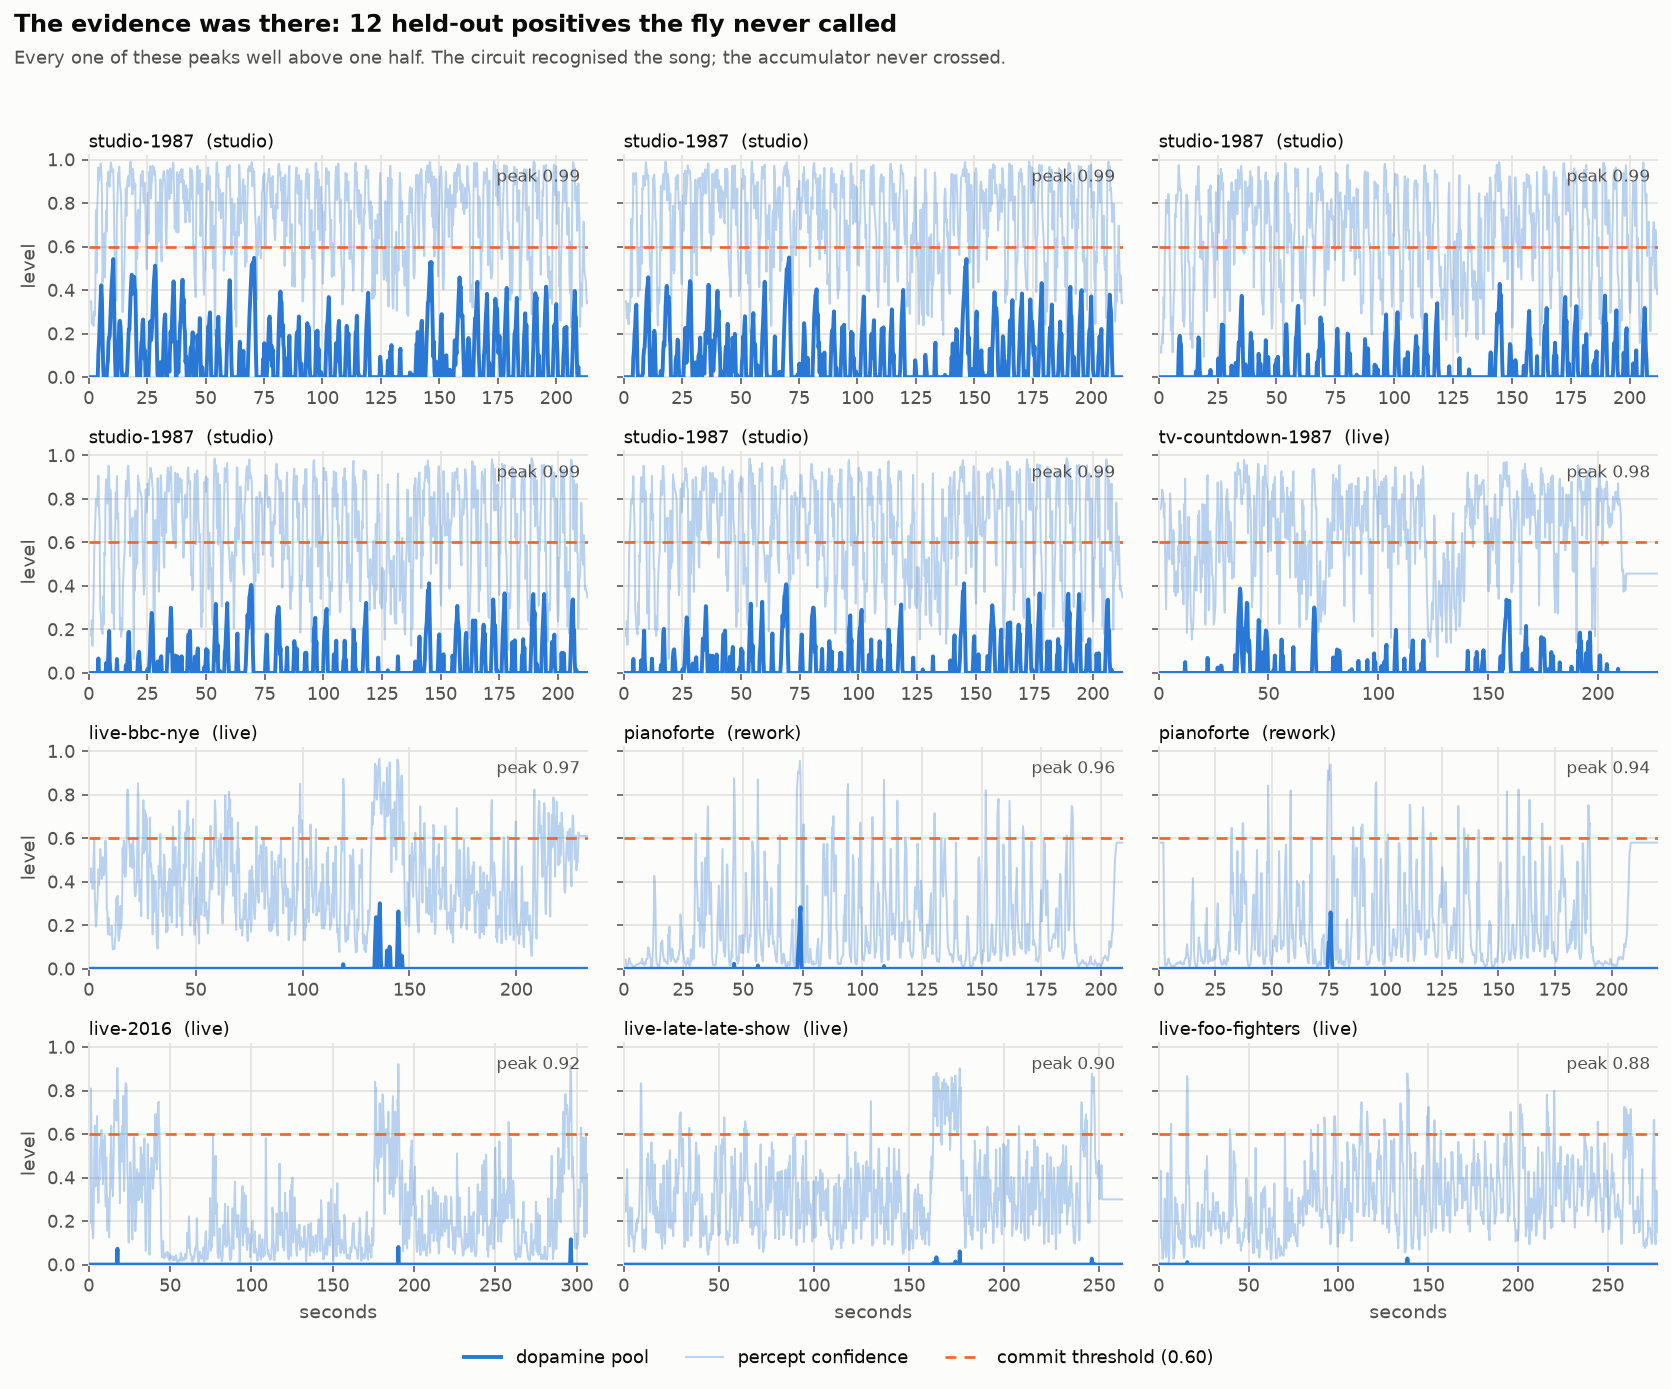
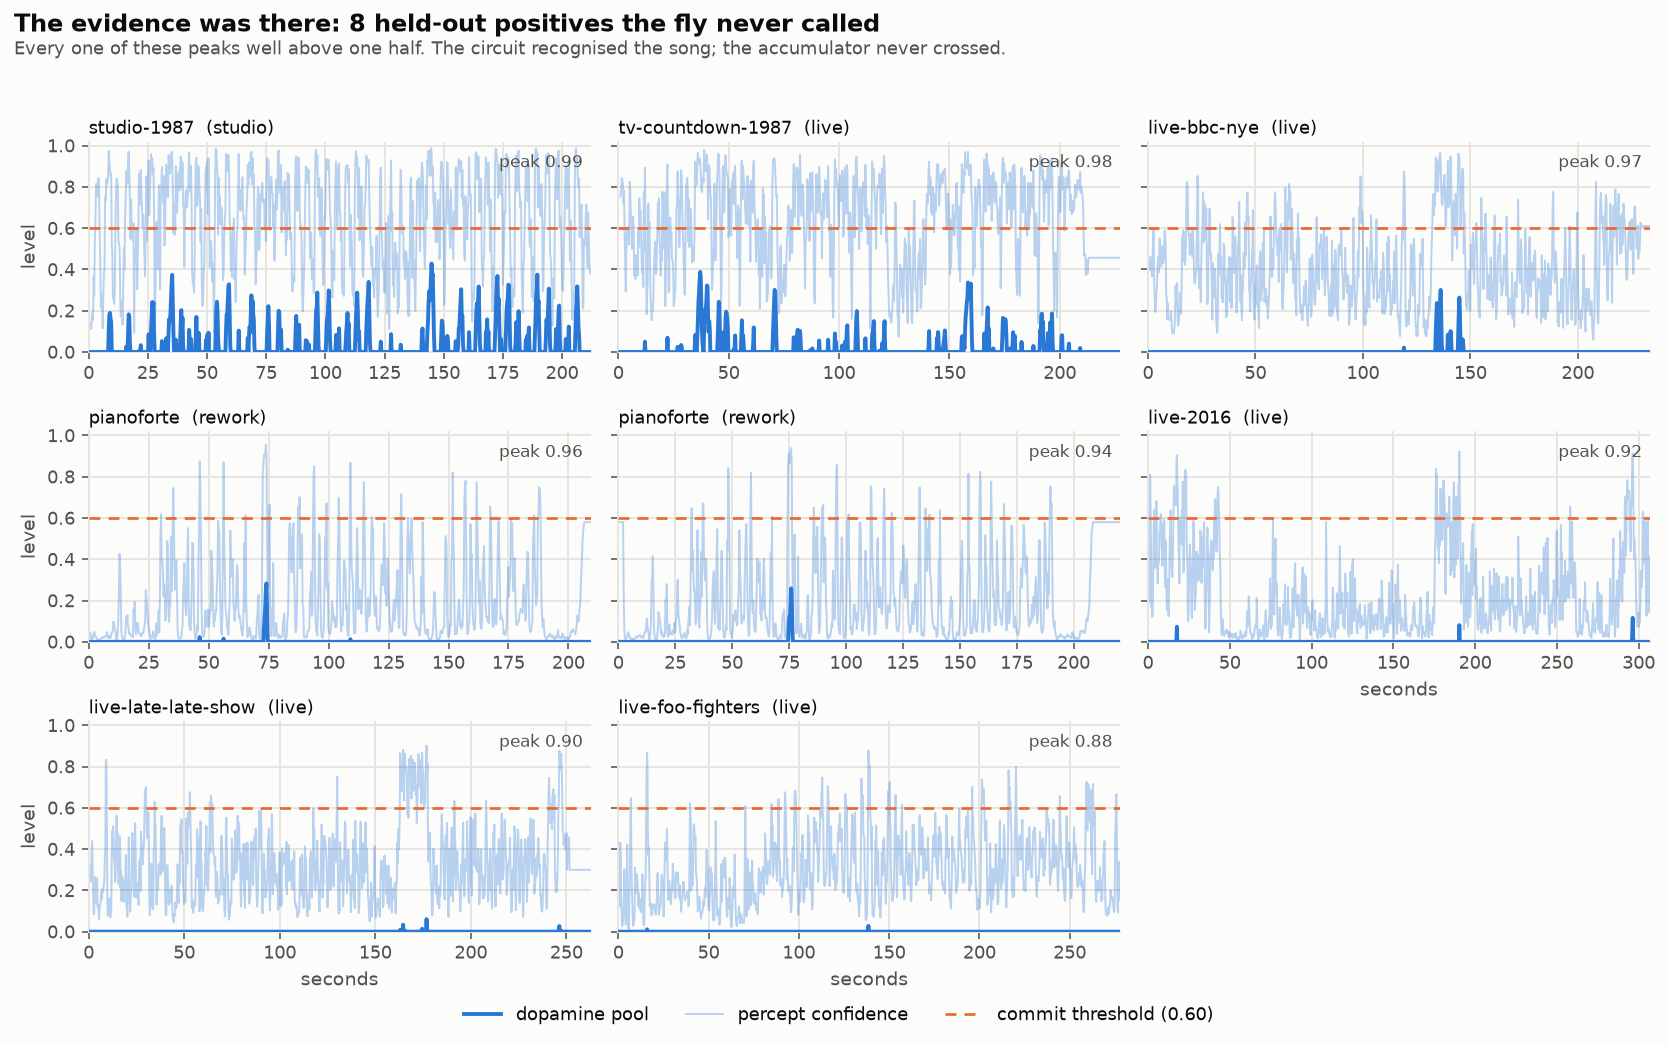
A third way to commit, for the sting buried in a long video
The caveat finding 6 ended on -- "a long video with a short sting is still
missed by construction" -- is not a corner case, it is the commonest shape a
Rickroll takes. An eleven-minute video carrying 1.3 s and 1.4 s of the record:
peak confidence 0.976, pool stalled at 0.471 against 0.60, burst switched off
by the 25-second gate. Not a rickroll.

Ungating the burst does not fix it, and the measurement is not close. Over a
whole track the best two-second mean confidence reaches 0.985 on a TED talk
and 0.972 on She Wants To Dance With Me, while the video that really is a
Rickroll scores 0.939. Ranked by that statistic the genuine article loses to a
lecture. A mean over a window can be carried by one spike and a long video
offers thousands of windows to find a spike in; the gate was not protecting an
arbitrary length limit, it was protecting a statistic that cannot survive many
chances.

An unbroken run can. Requiring every consecutive percept to clear a high bar
has to survive each percept rather than average over them, and of forty-four
full-length negatives exactly one holds 0.97 for six tenths of a second -- the
hard negative this project already documents the fly as partly confusing with
the song. So: 0.97 held for 0.60 s, ungated, as a third path.

    unheard upload      recall 1.000 -> 1.000   specificity 0.977 -> 0.977
    unheard rendition   recall 0.429 -> 0.619   specificity 0.909 -> 0.909
[…]

diff --git a/tests/test_dopamine.py b/tests/test_dopamine.py
@@ -106,11 +106,13 @@ def slow(config):
     The default commit threshold is 0.35, which a confident percept reaches in
     under a second, and a test of the fast path that the slow path wins is not
     a test of the fast path. These are the shipped tau and baseline with the
-    threshold put out of reach, so only the burst can fire.
+    threshold put out of reach, and the streak switched off, so only the burst
+    can fire.
     """
     from dataclasses import replace
 
-    return replace(config, da_tau=2.0, da_baseline=0.72, da_commit=0.85)
+    return replace(config, da_tau=2.0, da_baseline=0.72, da_commit=0.85,
+                   da_streak_seconds=0.0)
 
 
 def _timeline(config, seconds: float, confidence: float):
@@ -152,8 +154,9 @@ def test_the_fast_path_is_only_for_short_recordings(slow):
     """The same evidence, once inside the gate and once outside it.
 
     A long video gives a sliding rule thousands of chances to fire, which is
-    how an ungated fast path spends the specificity floor. Past the gate the
-    slow pool is the only way in.
+    how an ungated windowed mean spends the specificity floor. Past the gate
+    this path is shut; the streak, which asks a harder question, is the one
+    that stays open (see below).
     """
     short = _timeline(slow, seconds=slow.da_burst_max_seconds - 2.0, confidence=0.99)
     long_ = _timeline(slow, seconds=slow.da_burst_max_seconds + 10.0, confidence=0.99)
@@ -180,4 +183,77 @@ def test_the_burst_can_be_switched_off(slow):
     off = replace(slow, da_burst_seconds=0.0)
     trace = DopamineTrace(off)
     trace.run(*_timeline(off, seconds=4.0, confidence=1.0))
+    assert trace.committed_at is None
+
+
+# ── the streak: near-certainty held without a break ─────────────────────────
+# The only path that does not care how long the video is, and the only one that
+# can catch four seconds of the record buried in eleven minutes of something
+# else -- which is the most ordinary Rickroll there is.
+
+
+@pytest.fixture
+def patient(config):
+    """A fly whose pool and burst are both out of reach, so only a streak fires."""
+    from dataclasses import replace
+
+    return replace(config, da_tau=2.0, da_baseline=0.72, da_commit=0.85,
+                   da_burst_seconds=0.0)
+
+
+def test_a_streak_of_near_certainty_commits(patient):
+    trace = DopamineTrace(patient)
+    trace.run(*_timeline(patient, seconds=2.0, confidence=0.99))
+    assert trace.committed_by == "streak"
+    assert trace.committed_at == pytest.approx(patient.da_streak_seconds, abs=0.2)
+
+
+def test_the_streak_does_not_care_how_long_the_video_is(patient):
+    """The whole point. A sting inside something long is still a sting.
+
+    The burst is gated at twenty-five seconds, so before this path existed the
+    same evidence was caught in a short video and missed in a long one.
+    """
+    hop = patient.window_hop_seconds
+    quiet, loud = 0.30, 0.99
+    for total in (10.0, 600.0):
+        n = int(round(total / hop))
+        confidence = np.full(n, quiet)
+        # four seconds of the record, a long way in
+        start = min(n - int(4.0 / hop) - 1, int(160.0 / hop))
+        confidence[start : start + int(4.0 / hop)] = loud
+        trace = DopamineTrace(patient)
+        trace.run(2.0 * confidence - 1.0, np.arange(n) * hop)
+        assert trace.committed_by == "streak", f"missed the sting in a {total:.0f}s video"
+
+
+def test_a_broken_run_does_not_count(patient):
+    """Sixty percepts of near-certainty, never two in a row, is not a streak.
+
+    A windowed mean would be carried over the line by these; that is exactly
+    the difference, and why this path can be ungated when the mean cannot.
+    """
+    hop = patient.window_hop_seconds
+    confidence = np.full(400, 0.30)
+    confidence[::4] = 1.0
+    trace = DopamineTrace(patient)
+    trace.run(2.0 * confidence - 1.0, np.arange(400) * hop)
+    assert trace.committed_at is None
+
+
+def test_just_under_the_bar_never_streaks(patient):
+    trace = DopamineTrace(patient)
+    trace.run(*_timeline(patient, seconds=60.0,
+                         confidence=patient.da_streak_confidence - 0.02))
+    assert trace.committed_at is None
+
+
+def test_the_streak_can_be_switched_off(patient):
+    from dataclasses import replace
+
+    off = replace(patient, da_streak_seconds=0.0)
+    trace = DopamineTrace(off)
+    # Two seconds: long enough for the streak had it been on, short enough
+    # that the pool cannot reach an out-of-reach threshold by itself.
+    trace.run(*_timeline(off, seconds=2.0, confidence=1.0))
     assert trace.committed_at is None

diff --git a/brain/config.py b/brain/config.py
@@ -152,6 +152,50 @@ certainty would. In practice the useful statistic is how *often* the fly says
 yes, not by how much, and a saturating input curve measures exactly that. It
 is also what neurons do."""
 
+DA_STREAK_CONFIDENCE = 0.97
+DA_STREAK_SECONDS = 0.60
+"""A third way to commit, and the only one that does not care how long the
+video is: six tenths of a second in which every consecutive percept is at or
+above 0.97 confidence.
+
+**The case this exists for.** Four seconds of the record stapled to the front
+of an eleven-minute video. The pool cannot charge from four seconds inside six
+hundred, and the burst above is switched off past twenty-five seconds by a gate
+that exists for good reasons. So the most ordinary Rickroll there is -- the
+sting hidden in something long -- was missed by construction, and said so in
+its own documentation.
+
+**Why a run, and not a longer mean.** The obvious fix is to ungate the burst.
+It does not work, and the measurement is unambiguous: over a whole track the
+best two-second mean confidence reaches 0.972 on *She Wants To Dance With Me*
+and 0.985 on a TED talk, while a real eleven-minute video carrying four seconds
+of the record scores 0.939. A mean over a window can be dragged up by one
+spike, and a long video offers thousands of windows to find one in. Ranked by
+that statistic the genuine Rickroll loses to a lecture about global ignorance.
+
+An unbroken run of near-certainty is a different question, and a much harder
+one to pass by accident. On the same full-length negatives only one of
+forty-four holds 0.97 for six tenths of a second -- and it is *She Wants To
+Dance With Me*, same artist, same producers, same year, which the fly is
+already documented as partly confusing with the song.
+
+**What it costs, measured on the out-of-fold tracks.** Nothing, and it pays:
+
+    unheard upload      recall 1.000 -> 1.000   specificity 0.977 -> 0.977
+    unheard rendition   recall 0.429 -> 0.619   specificity 0.909 -> 0.909
+
+Both specificities are untouched; rendition recall -- the honest number, the
+one for a cover the fly has never heard anyone play -- rises nineteen points,
+because a cover that is right for half a second now counts even though its pool
+never charges.
+
+The bar is the tight end of a cliff. At 0.60 s upload specificity is 0.977; at
+0.50 s it falls to 0.909. The video this was chased with holds 0.97 for 0.639 s,
+which is a margin of six percent rather than the four thousandths that sank the
+first version of the burst rule -- but it is still a margin, and it is recorded
+here rather than buried.
+"""
+
 DA_BURST_SECONDS = 2.0
 DA_BURST_CONFIDENCE = 0.90
 DA_BURST_MAX_SECONDS = 25.0
@@ -232,7 +276,16 @@ by training/train.py, not by hand."""
 @dataclass(frozen=True)
 class BrainConfig:
     """A complete parameter set, carried with the weights so a saved fly is
-    reproducible even if the defaults above move."""
+    reproducible even if the defaults above move.
+
+    **The defaults above are starting points, not the shipped fly.** Training
+    tunes the commitment parameters and saves what it chose into the model, so
+    a trained `models/fly_brain.npz` carries `da_tau`, `da_baseline` and
+    `da_commit` that differ from the module constants here. Anything measuring
+    the fly's behaviour must take its config from the loaded model --
+    `FlyBrain.load(...).config` -- and never from a bare `BrainConfig()`, which
+    describes an untrained animal and will quietly produce different verdicts.
+    """
 
     sample_rate: int = SAMPLE_RATE
     n_fft: int = N_FFT
@@ -271,6 +324,8 @@ class BrainConfig:
     da_slope: float = DA_SLOPE
     da_gain: float = DA_GAIN
     da_commit: float = DA_COMMIT
+    da_streak_confidence: float = DA_STREAK_CONFIDENCE
+    da_streak_seconds: float = DA_STREAK_SECONDS
     da_burst_seconds: float = DA_BURST_SECONDS
     da_burst_confidence: float = DA_BURST_CONFIDENCE
     da_burst_max_seconds: float = DA_BURST_MAX_SECONDS

diff --git a/brain/dopamine.py b/brain/dopamine.py
@@ -87,6 +87,11 @@ class DopamineTrace:
         self.committed_by: str | None = None
         self._last_t: float | None = None
         self._recent: deque[tuple[float, float]] = deque()
+        self._streak = 0.0
+        """Seconds of unbroken near-certainty. Accumulated as elapsed time
+        rather than counted in percepts, because the hop differs between
+        training and listening and a run counted in percepts would silently
+        mean two different durations."""
         self._burst_allowed = True
         """Set by :meth:`run`, which is the only caller that knows how long the
         recording is. Stepping one percept at a time leaves it on."""
@@ -115,6 +120,26 @@ class DopamineTrace:
         mean = sum(c for _, c in self._recent) / len(self._recent)
         return mean >= self.config.da_burst_confidence
 
+    def _streak_holds(self, confidence: float, dt: float) -> bool:
+        """The third path: near-certainty held without a break.
+
+        Unlike the burst this is not gated on the length of the recording, and
+        it is the only path that can fire on a sting buried in a long video --
+        the shape of the most ordinary Rickroll there is. It can afford to be
+        ungated because it asks a much harder question than a windowed mean: a
+        mean can be carried by one spike, and a long video supplies thousands
+        of windows to find a spike in, whereas a run has to survive every
+        percept it covers.
+        """
+        need = self.config.da_streak_seconds
+        if need <= 0:
+            return False
+        if confidence >= self.config.da_streak_confidence:
+            self._streak += dt
+        else:
+            self._streak = 0.0
+        return self._streak >= need
+
     def step(self, evidence: float, t: float) -> tuple[float, float]:
         """Advance the pool to time ``t`` under the current evidence.
 
@@ -142,13 +167,19 @@ class DopamineTrace:
         self.dopamine = max(0.0, self.dopamine * decay + charge * gain * excite)
         self.aversion = max(0.0, self.aversion * decay + charge * gain * avoid)
 
-        # Two ways to commit, and the pool is asked first so that a track long
-        # enough to convince it reports the reaction time it always did.
+        # Three ways to commit, and the pool is asked first so that a track
+        # long enough to convince it reports the reaction time it always did.
+        confidence = (evidence + 1.0) / 2.0
+        # The streak is advanced whatever else happens, so that a commit which
+        # arrives through another path does not leave it half counted.
+        streak = self._streak_holds(confidence, dt)
         if self.committed_at is None:
             if self.dopamine >= config.da_commit:
                 self.committed_at, self.committed_by = t, "pool"
-            elif self._burst((evidence + 1.0) / 2.0, t):
+            elif self._burst(confidence, t):
                 self.committed_at, self.committed_by = t, "burst"
+            elif streak:
+                self.committed_at, self.committed_by = t, "streak"
         return self.dopamine, self.aversion
 
     def run(self, evidence: np.ndarray, times: np.ndarray) -> tuple[np.ndarray, np.ndarray]:

diff --git a/docs/FINDINGS.md b/docs/FINDINGS.md
@@ -287,6 +287,78 @@ cut from `rendition`, simulated memes are so hard that nothing fires; cut from
 is pasting an upload, so `upload` is the population, and saying so is part of
 the claim.
 
+### 6c. The gate was the wrong variable, and the statistic was the wrong statistic
+
+The caveat at the end of finding 6 — *a long video with a short sting is still
+missed by construction* — is not a corner case. It is the most common shape a
+Rickroll takes: four seconds of the record buried in ten minutes of something
+else. Pasted in: an eleven-minute video containing **1.3 s and 1.4 s** of the
+song. Peak confidence 0.976, pool stalled at 0.471 against 0.60, burst switched
+off by the 25-second gate. **Not a rickroll.**
+
+The obvious fix is to ungate the burst. It does not work, and the measurement
+is not close. Best two-second mean confidence, over whole tracks, no gate:
+
+| | best 2 s mean |
+|---|---|
+| TED talk, *How not to be ignorant about the world* | **0.985** |
+| *She Wants To Dance With Me* (the hard negative) | **0.972** |
+| the eleven-minute video that really is a Rickroll | 0.939 |
+
+Ranked by that statistic the genuine Rickroll loses to a lecture. A mean over a
+window can be carried by a single spike, and a long video offers thousands of
+windows to find a spike in. The gate was not protecting an arbitrary length
+limit; it was protecting a statistic that cannot survive many chances.
+
+**An unbroken run can.** Requiring every consecutive percept to clear a high
+bar is a much harder test to pass by accident, because it has to survive each
+percept it covers rather than average over them. Of forty-four full-length
+negatives, exactly one holds 0.97 for six tenths of a second — and it is *She
+Wants To Dance With Me*, which this project already documents the fly as partly
+confusing with the song.
+
+So a third path, ungated: **0.97 held for 0.60 s**. Measured on the out-of-fold
+tracks:
+
+| | recall | specificity |
+|---|---|---|
+| unheard upload | 1.000 → 1.000 | 0.977 → **0.977** |
+| unheard rendition | 0.429 → **0.619** | 0.909 → **0.909** |
+
+Neither specificity moves. Rendition recall — the honest number — rises
+nineteen points, because a cover that is briefly right now counts even though
+its pool never charges. The eleven-minute video commits at 163.8 s, on the
+song's second appearance.
+
+Three things recorded rather than buried. The bar sits on a cliff: at 0.60 s
+upload specificity is 0.977, at 0.50 s it is 0.909, and the video this was
+chased with holds 0.97 for 0.639 s — a margin of six percent, better than the
+four thousandths that sank the first burst rule, but still a margin. The new
+recall is slower: median rendition commit goes from 28.1 s to 41.9 s and p90
+from 50.6 s to 190.5 s, because nothing already caught got faster and
+everything newly caught is hard and late. And *10 rickrolls 1 video*, 34
+seconds, is still missed — its best run never holds 0.97 that long.
+
+### 6d. The defaults in `brain/config.py` are not the shipped fly
+
+Found while measuring the above, and worth more than a footnote. Training tunes
+the commitment parameters and saves what it chose into the model, so:
+
+| | `brain/config.py` | `models/fly_brain.npz` |
+|---|---|---|
+| `da_tau` | 0.9 | **2.0** |
+| `da_baseline` | 0.66 | **0.72** |
+| `da_commit` | 0.35 | **0.6** |
+
+This is by design — the dataclass docstring says the config travels with the
+weights — but it is a trap for anything that measures behaviour. A sweep built
+on a bare `BrainConfig()` reproduces upload specificity of **0.614** where the
+shipped fly scores **0.977**, and every conclusion drawn from it is about an
+animal that was never shipped. The earlier short-clip numbers in 6b were
+computed that way and should be read as indicative only; the real-audio table
+in 6b was not, and stands. `BrainConfig`'s docstring now says this outright:
+take the config from `FlyBrain.load(...).config`, never from the defaults.
+
 ---
 
 ## What this points at

diff --git a/README.md b/README.md
@@ -53,16 +53,30 @@ re-encode, a remaster or a lyric video.
 
 | | percept AUC | track recall | track specificity | first suspicion | commits |
 |---|---|---|---|---|---|
-| **unheard rendition** | 0.704 macro · 0.780 pooled | 0.429 | 0.909 | 2.3 s | 28.1 s |
-| **unheard upload** | 0.971 macro · 0.971 pooled | 1.000 | 0.977 | 0.8 s | 10.1 s |
+| **unheard rendition** | 0.704 macro · 0.780 pooled | 0.619 | 0.909 | 2.3 s | 41.9 s |
+| **unheard upload** | 0.971 macro · 0.971 pooled | 1.000 | 0.977 | 0.8 s | 10.0 s |
 
-There are two ways for the fly to commit. The dopamine pool is the normal one
-and needs about ten seconds of the song. A meme does not have ten seconds — it
-has four, spliced onto the end of a cat video — so a second path commits on two
-seconds averaging 0.90 confidence, in recordings of at most 25 seconds. An
-eight-second Rickroll commits at about 4 s. The
-gate is what keeps it honest: it cannot reach a full-length track, so the
-figures above are untouched by it. See finding 6 in
+There are **three** ways for the fly to commit, because a Rickroll comes in
+three shapes.
+
+The dopamine pool is the normal one and needs about ten seconds of the song.
+A meme does not have ten seconds — it has four, spliced onto the end of a cat
+video — so a second path commits on two seconds averaging 0.90 confidence, in
+recordings of at most 25 seconds; an eight-second Rickroll commits at about
+4 s. That gate is what keeps the second path honest, but it also meant the most
+ordinary Rickroll of all was missed by construction: four seconds of the record
+buried in eleven minutes of something else, far too long for the gate and far
+too short for the pool.
+
+So there is a third, and it is the only one that does not care how long the
+video is: **six tenths of a second in which every consecutive percept is at or
+above 0.97**. Ungating the second path instead does not work, and the
+measurement is not close — over a whole track the best two-second mean reaches
+0.972 on *She Wants To Dance With Me* and 0.985 on a TED talk, while a real
+eleven-minute video carrying four seconds of the record scores 0.939. A mean
+can be carried by one spike and a long video supplies thousands of windows to
+find one in; an unbroken run cannot. It costs neither specificity above, and it
+is why rendition recall is 0.619 rather than 0.429. See finding 6 in
 [docs/FINDINGS.md](docs/FINDINGS.md).
 
 65 tracks, 66,035 percepts, 19,156 of them the song. Confidences are pooled
@@ -86,9 +100,15 @@ same master. It is the right number for the product and the wrong number for
 **The rendition number is the honest one, and it is 0.704.** For a piano cover
 or a live performance the fly is much closer to guessing.
 
-**Track-level figures carry a mild optimism.** The commit rule's three numbers
-are chosen against the 65 out-of-fold tracks. The percept AUCs are untouched by
+**Track-level figures carry a mild optimism.** The commit rule's numbers are
+chosen against the 65 out-of-fold tracks. The percept AUCs are untouched by
 that.
+
+**Catching more covers made the fly slower to say so.** Rendition recall went
+from 0.429 to 0.619 when the third path was added, and the median commit time
+went from 28.1 s to 41.9 s with it. Nothing got slower: the covers that were
+already caught are caught at the same moment as before. The ones that are new
+are the hard ones, and they are caught late.
 
 **And the specificity is flattered.** Adding four ordinary uploads of "She
 Wants To Dance With Me" — same artist, same producers, same year — drops the
